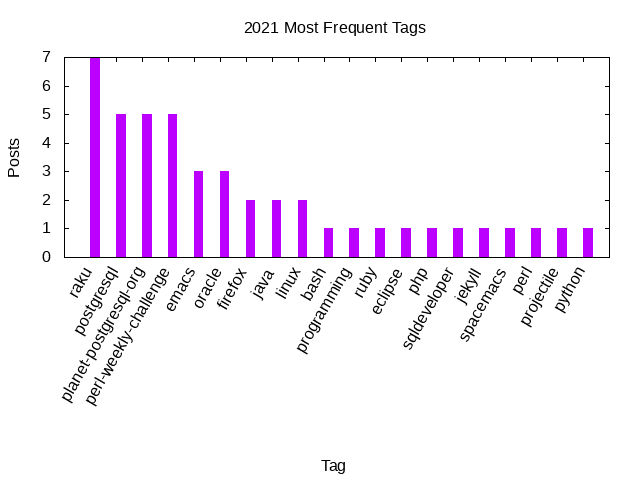
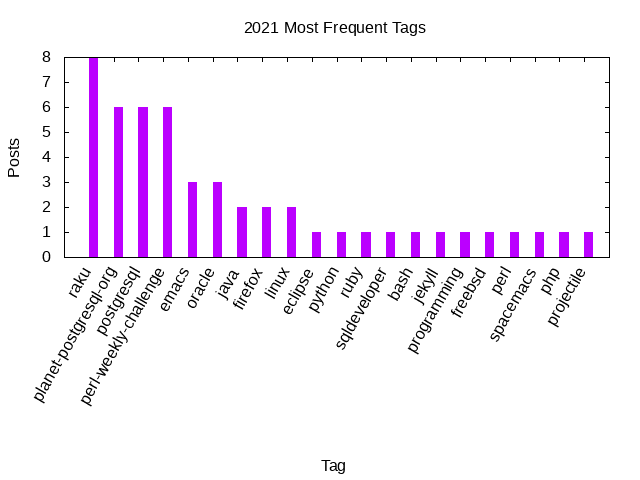
Stats update

diff --git a/_includes/stats/2021.md b/_includes/stats/2021.md
@@ -1,30 +1,31 @@
 <a name="2021" />
 ## 2021 (work in progress)
 
-**21 total posts** have been written on 2021.
-There have been *20 different tags* used, the most
+**24 total posts** have been written on 2021.
+There have been *21 different tags* used, the most
 popular being (sorted by number of posts):
  
-- *raku* (7 posts)  
-- *postgresql* (5 posts)  
-- *planet-postgresql-org* (5 posts)  
-- *perl-weekly-challenge* (5 posts)  
+- *raku* (8 posts)  
+- *planet-postgresql-org* (6 posts)  
+- *postgresql* (6 posts)  
+- *perl-weekly-challenge* (6 posts)  
 - *emacs* (3 posts)  
 - *oracle* (3 posts)  
-- *firefox* (2 posts)  
 - *java* (2 posts)  
+- *firefox* (2 posts)  
 - *linux* (2 posts)  
-- *bash* (1 posts)  
-- *programming* (1 posts)  
-- *ruby* (1 posts)  
 - *eclipse* (1 posts)  
-- *php* (1 posts)  
+- *python* (1 posts)  
+- *ruby* (1 posts)  
 - *sqldeveloper* (1 posts)  
+- *bash* (1 posts)  
 - *jekyll* (1 posts)  
-- *spacemacs* (1 posts)  
+- *programming* (1 posts)  
+- *freebsd* (1 posts)  
 - *perl* (1 posts)  
-- *projectile* (1 posts)  
-- *python* (1 posts).<br/>
+- *spacemacs* (1 posts)  
+- *php* (1 posts)  
+- *projectile* (1 posts).<br/>
 <br/>
 The following is the overall 2021 post ratio by month:
 <br/>
@@ -43,7 +44,7 @@ The following is the overall 2021 post ratio by tag (showing max 30 tags):
 
 <div align="right">
 <small>
-Last generated on 2021-02-01 at 14:10
+Last generated on 2021-02-11 at 11:56
 </small>
 </div>
 
